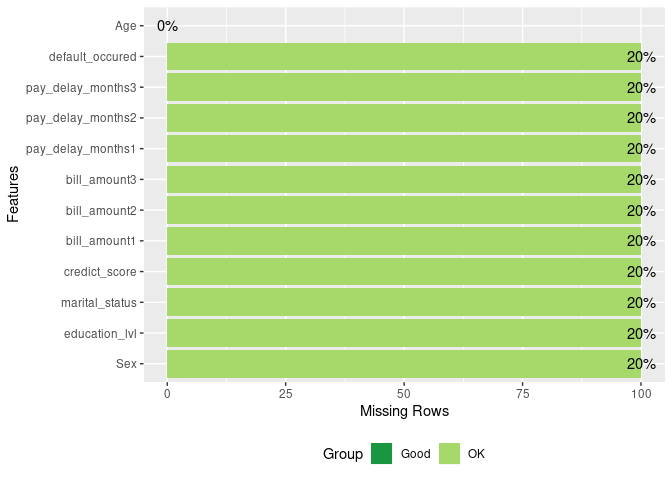
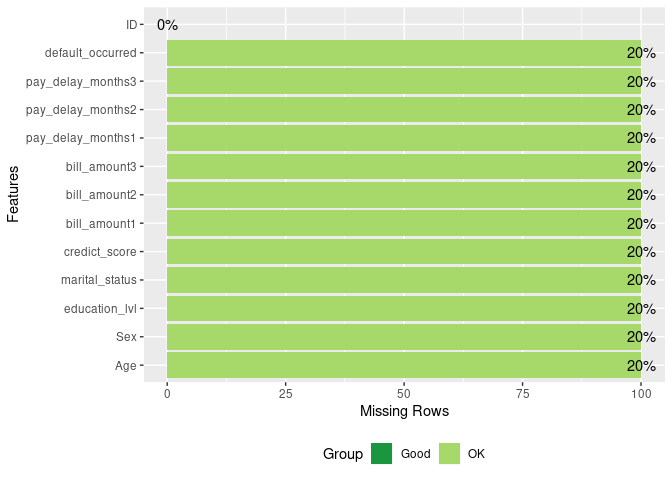
Added logistic regression to R ML script

diff --git a/R/ML-categorical-classifier.md b/R/ML-categorical-classifier.md
@@ -21,17 +21,20 @@ library(dplyr)
 library(DataExplorer)
 library(mice)
 library(caret)
+library(gencve)
 ```
 
 We will generate a dataset and set roughly 20% of the data to missing.
-This is done to simulate a real life dataset, as they are rarely
-complete.
+This is done to simulate a real life dataset, as they are rarely ever
+complete. Datasets with missing values are a reality that every data
+scientist must deal with.
 
-As unfortunate at that may be, it gives us the opportunity to use some
+As unfortunate as that may be, it gives us the opportunity to use some
 sophisticated data imputation algorithms, like we will use here.
 
 ``` r
 raw_data <- r_data_frame(n = 500,
+                         id,
                          age(x = 18:100),
                          sex,
                          education_lvl = sample(1:4, n, replace = TRUE),
@@ -43,7 +46,8 @@ raw_data <- r_data_frame(n = 500,
                          pay_delay_months1 = sample(0:4, n, replace = TRUE),
                          pay_delay_months2 = sample(0:5, n, replace = TRUE),
                          pay_delay_months3 = sample(0:5, n, replace = TRUE),
-                         default_occured = dummy
+                         default_occurred = dummy
+                         #default_occurred = sample(c('no', 'yes'), n, replace = TRUE)
 ) %>% r_na(prob = 0.2)
 ```
 
@@ -89,6 +93,9 @@ ease.
 The `MICE` package can help us clean our data.
 
 ``` r
+# Remove the ID column before imputing
+raw_data <- select(raw_data, -c(ID))
+
 # Use MICE w/ five imputation passes
 guess_missing <- mice(raw_data, printFlag = FALSE)
 
@@ -114,9 +121,27 @@ what this dataset looks like.
 
 ``` r
 # Set categorical variables as factors within our dataframe
-imputed_data$education_lvl <- as.factor(imputed_data$education_lvl)
-imputed_data$default_occured <- as.factor(imputed_data$default_occured)
-imputed_data$marital_status <- as.factor(imputed_data$marital_status)
+cat_var_vector <- c('education_lvl', 'default_occurred', 'marital_status')
+imputed_data <- imputed_data %>% mutate_at(cat_var_vector, funs(factor(.)))
+```
+
+    ## Warning: funs() is soft deprecated as of dplyr 0.8.0
+    ## please use list() instead
+    ## 
+    ## # Before:
+    ## funs(name = f(.)
+    ## 
+    ## # After: 
+    ## list(name = ~f(.))
+    ## This warning is displayed once per session.
+
+``` r
+# Decode depdendent variable
+imputed_data <- imputed_data %>% 
+  mutate(default_occurred = factor(
+    ifelse(
+      default_occurred == 0, 'no', 'yes')
+    ))
 
 # Visualize all categorical/binary features
 plot_bar(imputed_data)
@@ -124,7 +149,7 @@ plot_bar(imputed_data)
 
 ![](ML-categorical-classifier_files/figure-gfm/unnamed-chunk-7-1.png)<!-- -->
 
-Our dependent variable `default_occured` appears to be balanced between
+Our dependent variable `default_occurred` appears to be balanced between
 the two values. Therefore, we won’t need to oversample this feature as a
 pre-processing step.
 
@@ -144,7 +169,10 @@ We should split our imputed dataset into train and test components
 before fitting our models.
 
 ``` r
-idx <- createDataPartition(imputed_data$default_occured, 
+# Decode dependent variable factor levels to either "yes" or "no"
+levels(imputed_data$default_occurred) <- c('no', 'yes')
+
+idx <- createDataPartition(imputed_data$default_occurred, 
                            p = 0.8, 
                            list = FALSE, 
                            times = 1)
@@ -155,5 +183,96 @@ test_data <- imputed_data[-idx, ]
 
 ### 4\. Model Training
 
+We should elect to train our model using minimized logarithmic loss as
+our optimization algorithm. This is because log loss will punish models
+for predicting wrong answers with high confidence, which is exactly what
+our use case calls for.
+
+#### A. Logistic Regression
+
 Let’s use `caret` to fit the fan-favorite logistic regression to our
-dataset.
+dataset. We will use 10-fold cross-validation to help mitigate
+overfitting.
+
+``` r
+# Setup training parameters using Log Loss
+logistic_control <- trainControl(method = 'cv',
+                                 number = 10,
+                                 classProbs = TRUE,
+                                 summaryFunction = mnLogLoss,
+                                 allowParallel = TRUE)
+
+# Fit the classifier to the data
+logistic_fit <- train(default_occurred ~ .,
+                      data=training_data,
+                      method='glm',
+                      family='binomial',
+                      trControl=logistic_control,
+                      metric = "logLoss")
+```
+
+Our logistic regression model is now trained and we can test it’s
+ability to predict the correct dependent variable value.
+
+``` r
+logistic_predict <- predict(logistic_fit, newdata=test_data)
+gencve::logloss(test_data$default_occurred, logistic_predict)
+```
+
+    ## [1] 67.42823
+
+The logloss number can be used to benchmark the efficacy of one model
+against another, similar to how the mean squared error value is used to
+pick the best model.
+
+Next, the confusion matrix can be generated to check the accuracy of the
+model.
+
+``` r
+confusionMatrix(table(logistic_predict, test_data$default_occurred))
+```
+
+    ## Confusion Matrix and Statistics
+    ## 
+    ##                 
+    ## logistic_predict no yes
+    ##              no  22  21
+    ##              yes 24  32
+    ##                                           
+    ##                Accuracy : 0.5455          
+    ##                  95% CI : (0.4423, 0.6459)
+    ##     No Information Rate : 0.5354          
+    ##     P-Value [Acc > NIR] : 0.4608          
+    ##                                           
+    ##                   Kappa : 0.0824          
+    ##  Mcnemar's Test P-Value : 0.7656          
+    ##                                           
+    ##             Sensitivity : 0.4783          
+    ##             Specificity : 0.6038          
+    ##          Pos Pred Value : 0.5116          
+    ##          Neg Pred Value : 0.5714          
+    ##              Prevalence : 0.4646          
+    ##          Detection Rate : 0.2222          
+    ##    Detection Prevalence : 0.4343          
+    ##       Balanced Accuracy : 0.5410          
+    ##                                           
+    ##        'Positive' Class : no              
+    ## 
+
+In this case the accuracy of our model performs no better than flipping
+a coin. This is what is scientifically known as “garbage accuracy.”
+
+Q: Why is our accuracy so low?
+
+A: Remember that we generated this dataset at the beginning of this
+exercise. The data we created does not have the statistical phenomena
+that is represented in real life data. In effect, we are evaluating how
+well our models fit to random noise.
+
+Q: Why bother doing this then?
+
+A: This notebook is a *how to* example of what a typical machine
+learning pipeline looks like. It is not meant to uncover new ground
+truths within a dataset. The models trained here will not be deployed
+because they are being trained to fake data. This notebook is just a
+portrait of what is possible.
